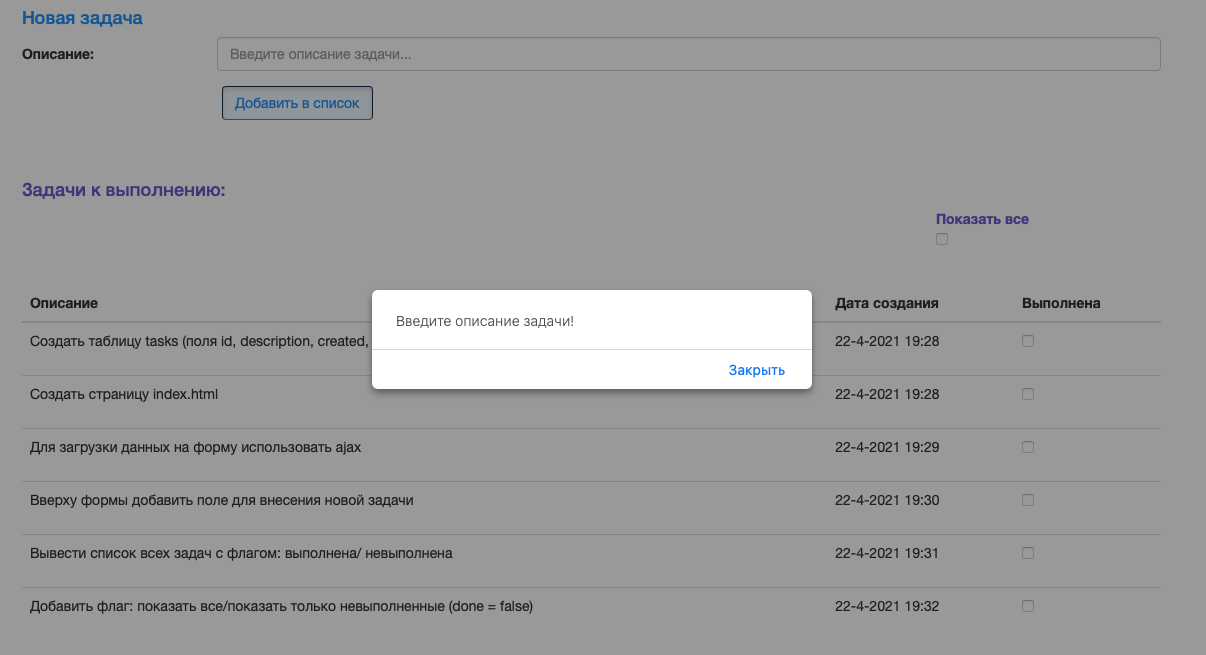
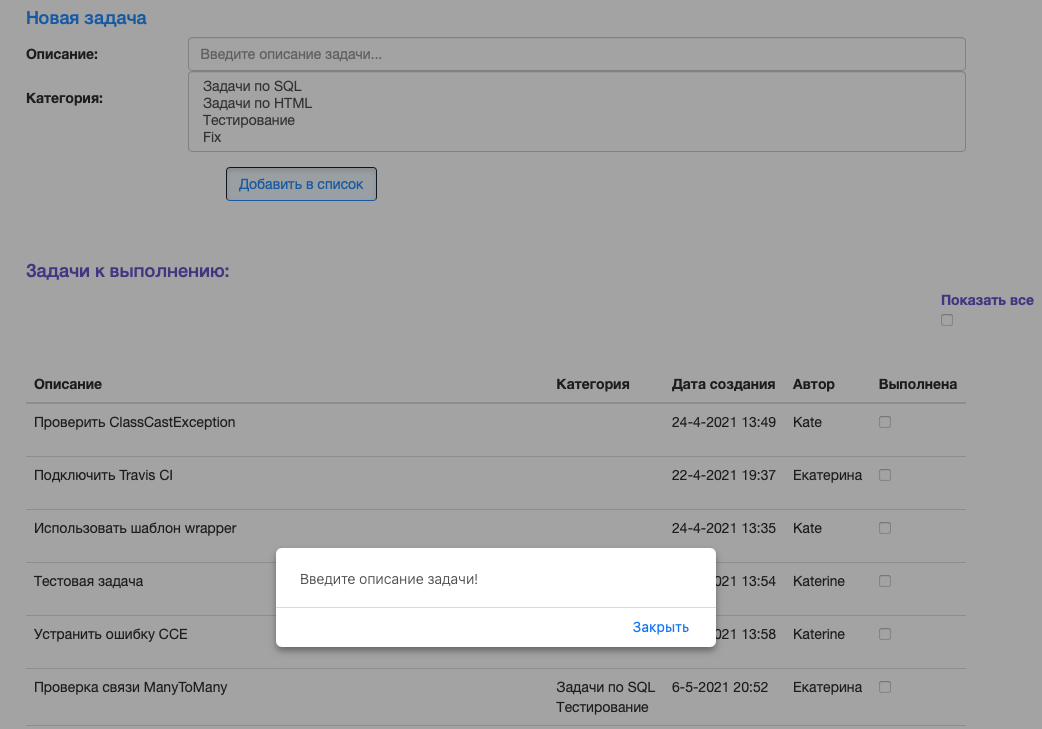
4. Категории в TODO List [#433089] add categories + update readme

diff --git a/src/main/webapp/index.html b/src/main/webapp/index.html
@@ -50,11 +50,17 @@
     </script>
     <script>
         function addRow(task) {
+            let categories = "";
+            for (let i = 0; i < task.categories.length; i++) {
+                categories += task.categories[i].name;
+                categories += "<br/>";
+            }
             const date = new Date(task.created);
             const createdData = date.getDate()+'-'+(date.getMonth()+1)+'-'+date.getFullYear()+' '
                 +date.getHours()+':'+date.getMinutes();
             let resolved = task.done === true ? "checked" : "";
             $('#table tr:last').after('<tr><td>' + task.description + '</td>'
+                + '<td>' + categories + '</td>'
                 + '<td>' + createdData + '</td>'
                 + '<td>' + task.user.name + '</td>'
                 + '<td>' + '<input class="checkbox" style="color: slateblue" type="checkbox" id="' + task.id
@@ -163,6 +169,7 @@
         <thead>
         <tr>
             <th>Описание</th>
+            <th>Категория</th>
             <th>Дата создания</th>
             <th>Автор</th>
             <th>Выполнена</th>
